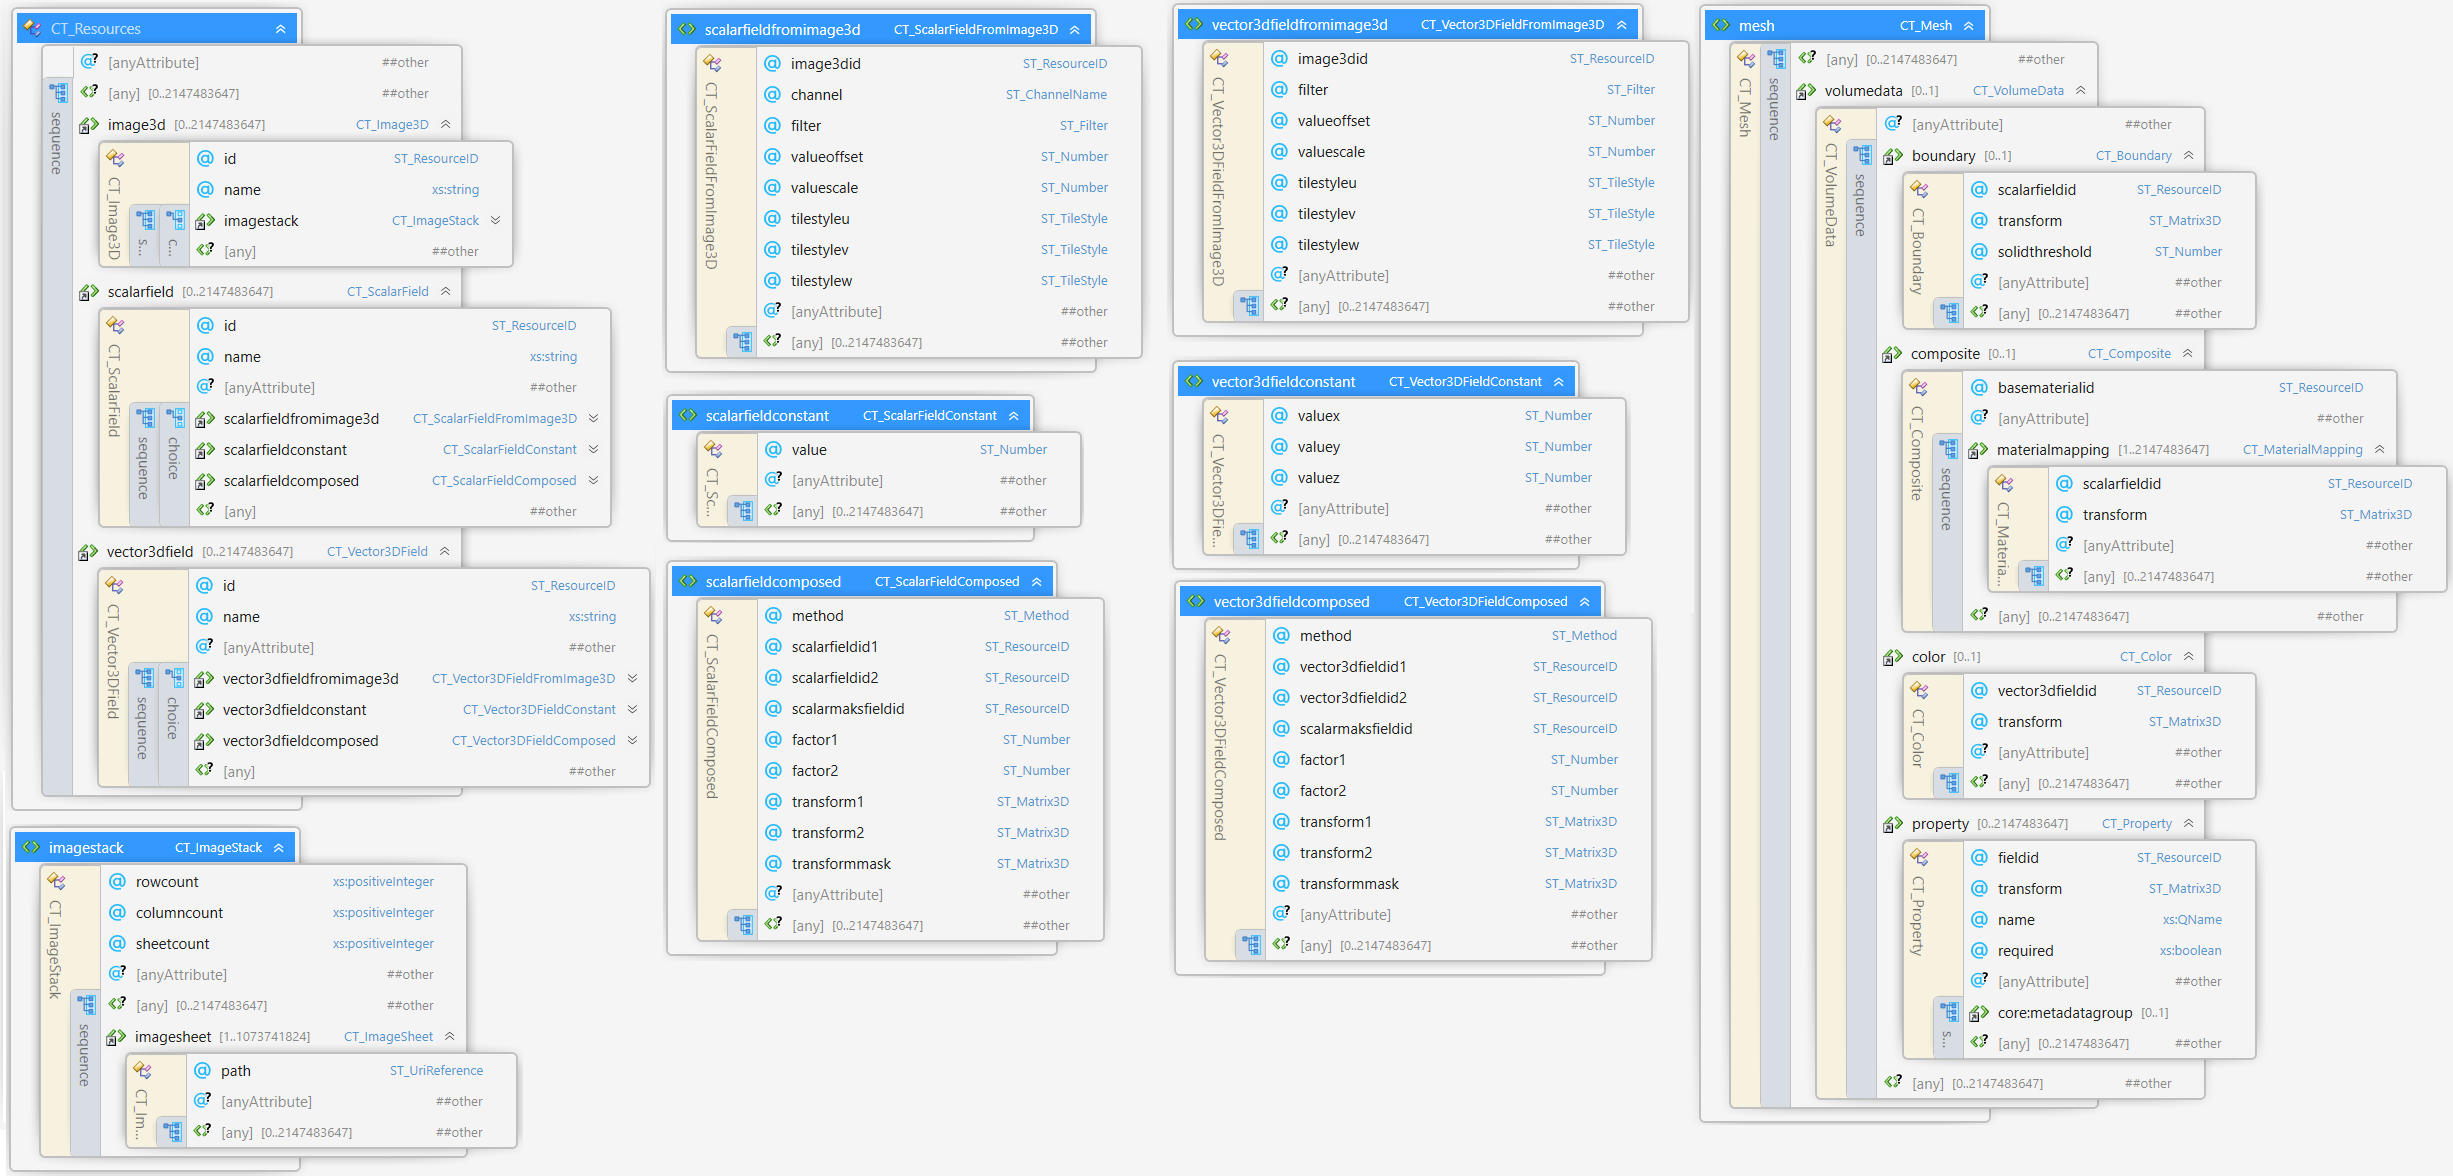
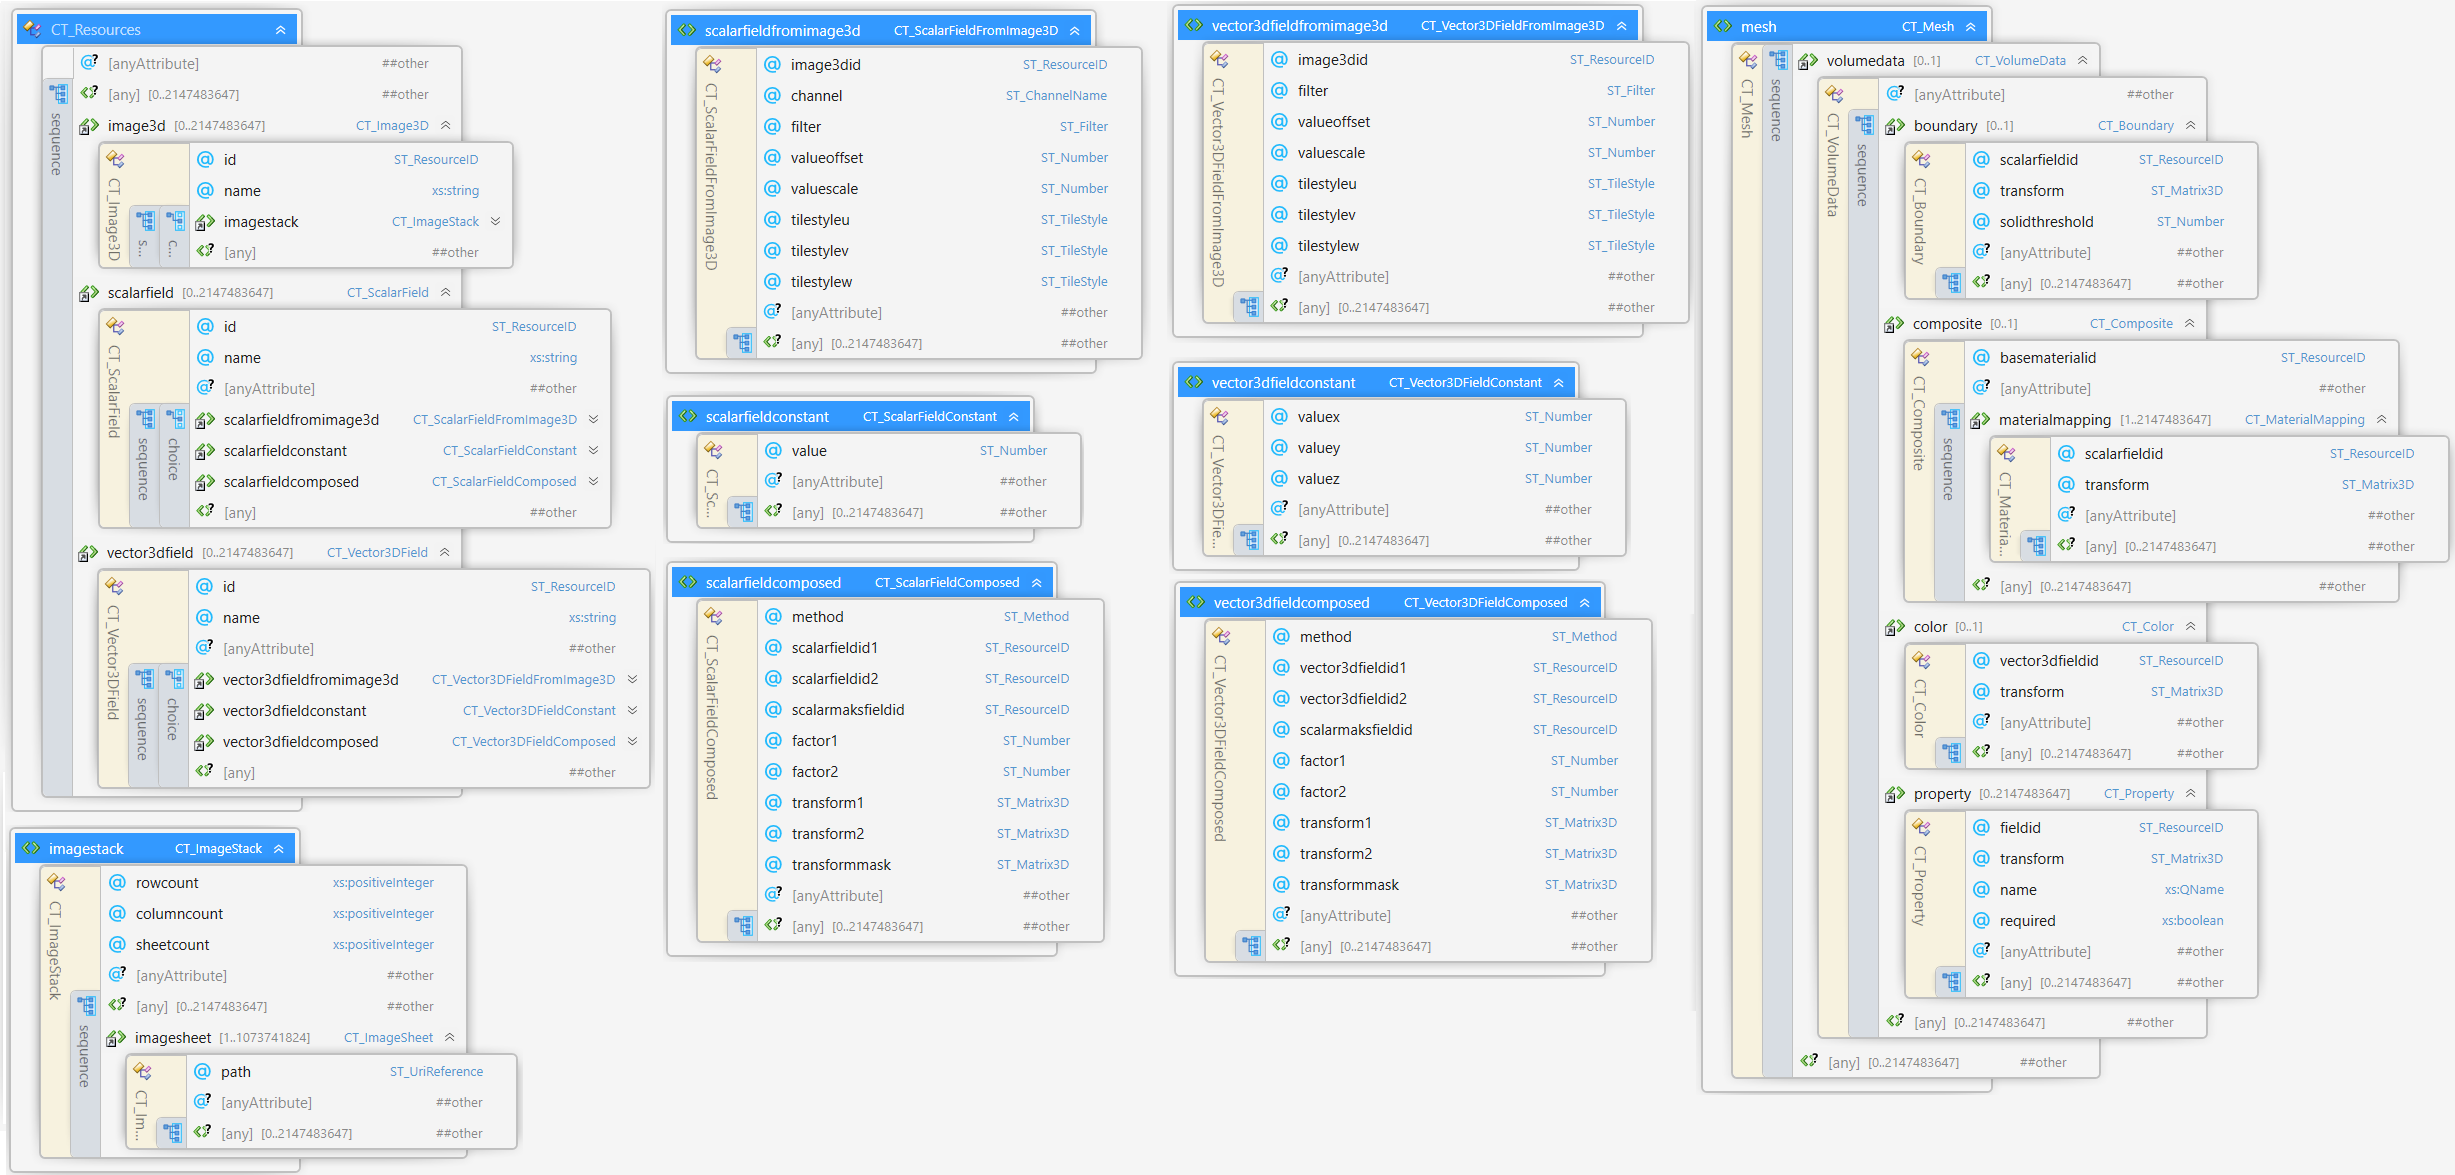
Remove metadatagroup

diff --git a/3MF Volumetric Extension.md b/3MF Volumetric Extension.md
@@ -685,8 +685,6 @@ If a physical unit is necessary, the namespace owner MUST define a unique and un
 If a \<property> is marked as `required`, and a consumer does not support it, it MUST warn the user or the appropriate upstream processes that it cannot process all contents in this 3MF document instance.
 Producers of 3MF files MUST mark all volumetric \<property>-elements required to represent the design intent of a model as `required`.
 
-The property element CAN have an optional group of CT\_Metadata elements (\<metadatagroup>) as specified in the Metadata section of the 3MF core specification, see https://github.com/3MFConsortium/spec_core/blob/develop_1.3.0/3MF%20Core%20Specification.md#341-metadata.
-
 # Chapter 6. Notes
 
 ## 6.1. Evaluation Graph
@@ -742,8 +740,7 @@ See [the standard 3MF Glossary](https://github.com/3MFConsortium/spec_resources/
 <?xml version="1.0" encoding="UTF-8"?>
 <xs:schema xmlns="http://schemas.microsoft.com/3dmanufacturing/volumetric/2022/01" xmlns:xs="http://www.w3.org/2001/XMLSchema"
 xmlns:xml="http://www.w3.org/XML/1998/namespace" targetNamespace="http://schemas.microsoft.com/3dmanufacturing/volumetric/2022/01"
-	elementFormDefault="unqualified" attributeFormDefault="unqualified" blockDefault="#all" xmlns:core="http://schemas.microsoft.com/3dmanufacturing/core/2015/02">
-	<xs:import namespace="http://schemas.microsoft.com/3dmanufacturing/core/2015/02"/>
+	elementFormDefault="unqualified" attributeFormDefault="unqualified" blockDefault="#all">
 
 	<xs:annotation>
 		<xs:documentation>
@@ -911,8 +908,8 @@ xmlns:xml="http://www.w3.org/XML/1998/namespace" targetNamespace="http://schemas
 
 	<xs:complexType name="CT_Mesh">
 		<xs:sequence>
-			<xs:any namespace="##other" processContents="lax" minOccurs="0" maxOccurs="2147483647"/>
 			<xs:element ref="volumedata" minOccurs="0" maxOccurs="1"/>
+			<xs:any namespace="##other" processContents="lax" minOccurs="0" maxOccurs="2147483647"/>
 		</xs:sequence>
 	</xs:complexType>
 
@@ -966,7 +963,6 @@ xmlns:xml="http://www.w3.org/XML/1998/namespace" targetNamespace="http://schemas
 
 	<xs:complexType name="CT_Property">
 		<xs:sequence>
-			<xs:element ref="core:metadatagroup" minOccurs="0" maxOccurs="1"/>
 			<xs:any namespace="##other" processContents="lax" minOccurs="0" maxOccurs="2147483647"/>
 		</xs:sequence>
 		<xs:attribute name="fieldid" type="ST_ResourceID" use="required"/>
